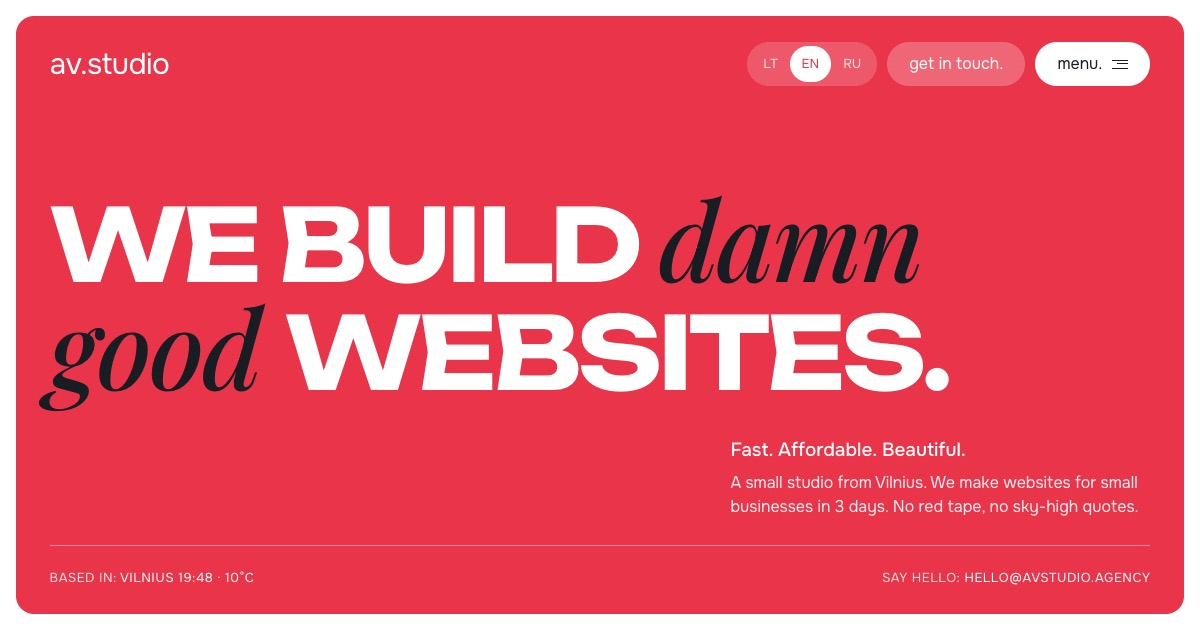
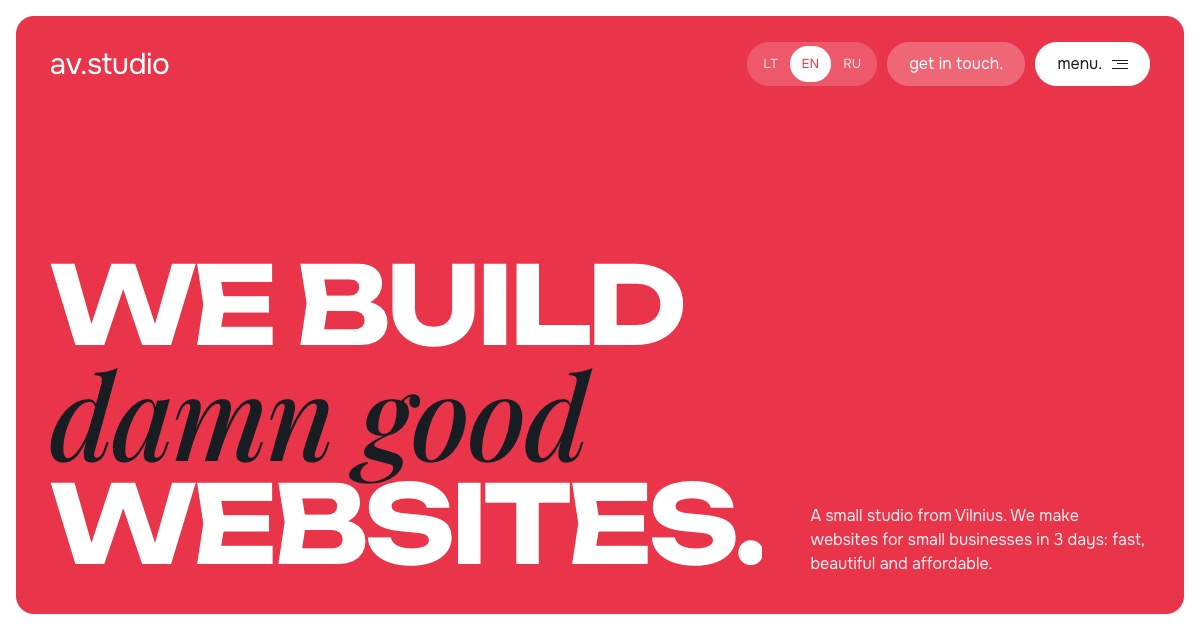
Hero: fixed headline lines sized to fill the screen, text beside it

Changed region(s): [[0.0308, 0.3016, 0.9558, 0.9349], [0.5858, 0.6937, 0.8017, 0.7238]]

diff --git a/index.html b/index.html
@@ -60,9 +60,11 @@ em{font-family:var(--serif);font-style:italic;font-weight:500;text-transform:non
 .burger{display:inline-block;width:16px;height:9px;border-top:1.5px solid currentColor;border-bottom:1.5px solid currentColor;position:relative}
 .burger::after{content:"";position:absolute;left:5px;right:0;top:2.5px;border-top:1.5px solid currentColor}
 
-h1{font:700 clamp(36px,min(6.2vw,10.5vh),118px)/.95 var(--wide);letter-spacing:-.045em;text-transform:uppercase}
+h1{font:700 clamp(36px,min(6.4vw,9vh),130px)/.95 var(--wide);letter-spacing:-.045em;text-transform:uppercase;white-space:nowrap;width:max-content}
 h1 em{color:var(--ink);font-size:1.08em;letter-spacing:-.02em;padding-right:.06em}
-.hero-main{margin-top:auto;display:grid;grid-template-columns:1fr minmax(240px,360px);gap:48px;align-items:end;padding-bottom:clamp(28px,6vh,64px)}
+.hero-main{flex:1;min-height:0;display:grid;grid-template-columns:minmax(0,1fr) minmax(220px,340px);gap:48px;align-items:end;padding-top:clamp(16px,4vh,48px);padding-bottom:clamp(28px,6vh,60px)}
+/* the headline box takes all free space; JS scales the font to fill it (fitHero) */
+.hbox{align-self:stretch;display:flex;align-items:flex-end;min-width:0;min-height:0;overflow:hidden}
 .hero-main p{font-size:clamp(16px,1.3vw,19px);line-height:1.5;color:rgba(255,255,255,.92)}
 
 /* menu overlay */
@@ -184,10 +186,15 @@ footer .logo{font-size:30px}
   .js .rv.on{opacity:1;transform:none}
 }
 
-@media (max-width:960px){
+/* narrower screens: text goes under the headline */
+@media (max-width:1100px){
   .hero{height:auto;min-height:calc(100svh - 2*var(--gap))}
-  .hero-main{grid-template-columns:1fr;padding-top:48px}
-  h1{font-size:clamp(36px,8.4vw,80px)}
+  .hero-main{grid-template-columns:1fr;gap:28px;padding-top:48px;flex:none;margin-top:auto}
+  .hbox{overflow:visible}
+  .hero-main p{max-width:460px}
+  h1{font-size:clamp(36px,8.4vw,96px)}
+}
+@media (max-width:960px){
   .svc{grid-template-columns:1fr;min-height:0}
   .svc svg{display:none}
   .faq .wrapf{grid-template-columns:1fr;gap:16px}
@@ -242,7 +249,7 @@ footer .logo{font-size:30px}
   </div>
 
   <div class="in hero-main">
-    <h1 data-i="h1">We build <em>damn good</em> websites.</h1>
+    <div class="hbox"><h1 data-i="h1">We build<br><em>damn good</em><br>websites.</h1></div>
     <p data-i="hero_p">A small studio from Vilnius. We make websites for small businesses in 3 days: fast, beautiful and affordable.</p>
   </div>
 </header>
@@ -454,7 +461,7 @@ const MAIL = 'hello@avstudio.agency';
 const T = {
   lt:{
     nav_work:'Darbai',nav_services:'Paslaugos',nav_process:'Procesas',nav_faq:'DUK',touch:'parašyti.',menu:'meniu.',close:'uždaryti.',
-    h1:'Kuriame <em>velniškai</em> geras svetaines.',city:'Vilnius',
+    h1:'Kuriame<br><em>velniškai</em><br>geras<br>svetaines.',city:'Vilnius',
     hero_p:'Nedidelė studija iš Vilniaus. Kuriame svetaines smulkiam verslui per 3 dienas: greitai, gražiai ir nebrangiai.',
     h_work:'Mūsų darbai',case1:'Fotografės portfolio',case4:'Kriptovaliutų paslauga',case2:'Grožio studija · koncepcija',case3:'Renovacija · koncepcija',
     next_t:'Jūsų verslas?',next_k:'Kitas',next_card:'Čia bus<br><em>jūsų svetainė</em>',more:'Noriu tokios pat',
@@ -482,7 +489,7 @@ const T = {
   },
   ru:{
     nav_work:'Работы',nav_services:'Услуги',nav_process:'Процесс',nav_faq:'Вопросы',touch:'написать.',menu:'меню.',close:'закрыть.',
-    h1:'Мы делаем <em>чертовски</em> хорошие сайты.',city:'Вильнюс',
+    h1:'Мы делаем<br><em>чертовски</em><br>хорошие<br>сайты.',city:'Вильнюс',
     hero_p:'Небольшая студия из Вильнюса. Делаем сайты для малого бизнеса за 3 дня: быстро, красиво и недорого.',
     h_work:'Наши работы',case1:'Портфолио фотографа',case4:'Крипто-сервис',case2:'Салон красоты · концепт',case3:'Ремонт квартир · концепт',
     next_t:'Ваш бизнес?',next_k:'Следующий',next_card:'Здесь будет<br><em>ваш сайт</em>',more:'Хочу так же',
@@ -525,7 +532,23 @@ function setLang(l){
   document.querySelectorAll('[data-lang]').forEach(b => b.setAttribute('aria-pressed', b.dataset.lang === lang));
   try { localStorage.setItem('lang', lang); } catch(e) {}
   updateLinks();
+  fitHero();
 }
+
+// Size the headline so its fixed lines fill the free space next to the text:
+// as wide as the column allows, as tall as the screen allows, whichever is smaller.
+const hbox = document.querySelector('.hbox'), h1 = hbox.querySelector('h1');
+function fitHero(){
+  const stacked = innerWidth <= 1100;
+  h1.style.fontSize = '100px';
+  const byW = hbox.clientWidth / h1.offsetWidth;
+  // stacked: leave room for the top bar and the text under the headline
+  const freeH = stacked ? innerHeight - document.querySelector('.top').offsetHeight - document.querySelector('.hero-main p').offsetHeight - 170 : hbox.clientHeight * 0.94;
+  const byH = freeH / h1.offsetHeight;
+  h1.style.fontSize = Math.max(34, Math.min(100 * Math.min(byW, byH), 170)) + 'px';
+}
+let fitRaf; addEventListener('resize', () => { cancelAnimationFrame(fitRaf); fitRaf = requestAnimationFrame(fitHero); });
+document.fonts && document.fonts.ready.then(fitHero);
 
 // ---- Brief: 3 tiny steps, answers go into the first message ----
 const opts = [...document.querySelectorAll('#opts .opt')];
